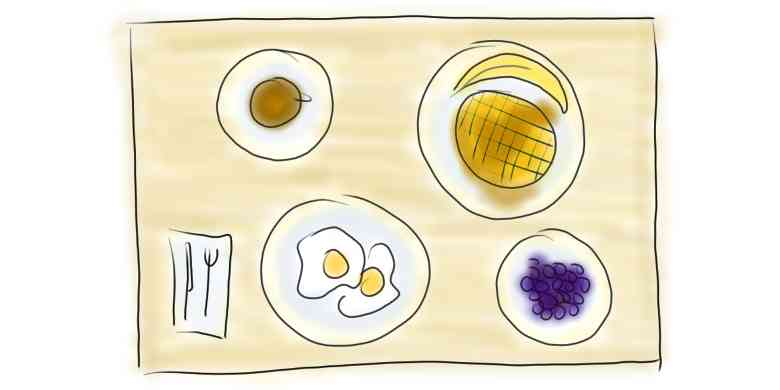
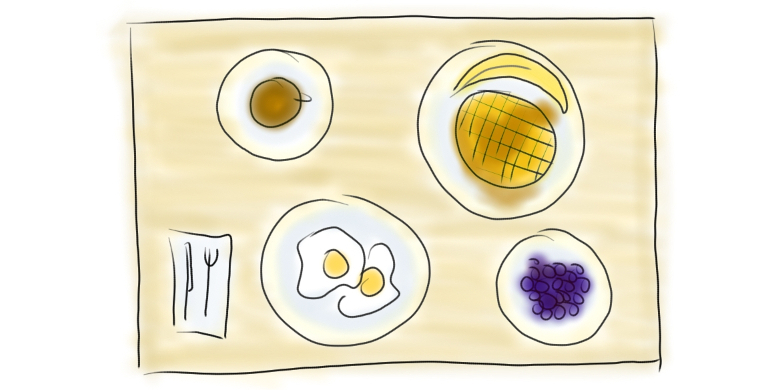
Fix image compression

diff --git a/about/index.html b/about/index.html
@@ -74,7 +74,7 @@
 
 <p>I&rsquo;m nomadic and minimalistic. I 🖤 <strong>simplicity</strong>, and all my belongings live in one carry-on size backpack. I firmly believe that personal independence is the greatest form of wealth. In a little over the last year and a half, I&rsquo;ve lived in 20 cities in 10 countries and travelled well over 100,000 km.</p>
 
-<p>I 🖤 <strong>sharing knowledge</strong>. I have a keen mind for making connections and happily apply this to explaining programming concepts with silly doodles in my blog posts. I also enjoy writing for technical publications on Medium including freeCodeCamp and Hacker Noon.</p>
+<p>I 🖤 <strong>sharing knowledge</strong>. I have a keen mind for making connections and happily apply this to explaining programming concepts alongside silly doodles in my blog posts. I also enjoy writing for <a href="/press">technical publications on Medium</a> including freeCodeCamp and Hacker Noon.</p>
 
 <h1 id="what-s-up-lately">What&rsquo;s up lately</h1>
 
@@ -88,7 +88,11 @@
 
 <h3 id="site-license">Site License</h3>
 
-<p><a rel="license" href="http://creativecommons.org/licenses/by-sa/4.0/"><img alt="Creative Commons License" style="border-width:0;margin:0 0;" src="https://i.creativecommons.org/l/by-sa/4.0/88x31.png" /></a>This work is licensed under a <a rel="license" href="http://creativecommons.org/licenses/by-sa/4.0/">Creative Commons Attribution-ShareAlike 4.0 International License</a>.</p>
+<p>
+<a rel="license" href="http://creativecommons.org/licenses/by-sa/4.0/"><img alt="Creative Commons License" style="border-width:0;margin:0 0;" src="https://i.creativecommons.org/l/by-sa/4.0/88x31.png" /></a>
+</p>
+
+<p>This work is licensed under a <a rel="license" href="http://creativecommons.org/licenses/by-sa/4.0/">Creative Commons Attribution-ShareAlike 4.0 International License</a>.</p>
 </div><div class="go-center"><hr id="accent-hr"/></div><div class="menu no-mobile"><p>
 <a href="/#work">work</a>
 
